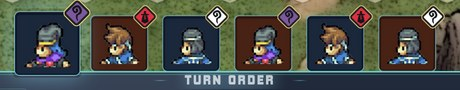
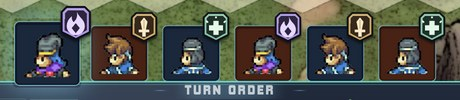
Redesign combat class crests and add them to both side rosters

diff --git a/client/src/components/GuidePage.tsx b/client/src/components/GuidePage.tsx
@@ -73,9 +73,10 @@ export default function GuidePage({onClose}: {onClose?: () => void}) {
             <p>The standard turn timer is <strong>{TURN_DURATION} seconds</strong>. Plan while other characters act and watch the hourglass for your remaining time. If the timer runs out, you lose that opportunity to act.</p>
             <p>Combat starts once everyone has loaded the arena and both teams’ spell and item effects. Practice matches pause if your connection drops and resume after the arena is ready again, keeping your remaining turn time. Once a match against another player has started, its clock keeps running if you disconnect.</p>
             <figure className="guide-figure-compact">
-              <img src={turnOrder} width="460" height="90" loading="lazy" alt="The turn-order portraits along the bottom of the arena, showing the sequence of characters about to act." />
+              <img src={turnOrder} width="460" height="100" loading="lazy" alt="The turn-order portraits along the bottom of the arena, showing class crests and the sequence of characters about to act." />
               <figcaption>The turn order is your planning tool. Speed and the recovery time of each action affect when a character acts again.</figcaption>
             </figure>
+            <p>Class crests appear on both side rosters and the turn order: an amber sword for Warriors, a mint cross for White Mages, and a violet flame for Black Mages.</p>
             <dl className="guide-definitions">
               <div><dt>Move</dt><dd>Click an empty blue tile. Moving uses your action, so pick a position that sets up your next turn or gets a vulnerable character out of danger.</dd></div>
               <div><dt>Attack</dt><dd>Click an adjacent enemy for a melee attack. Clicking a distant enemy moves you toward them instead; it does not grant a free attack.</dd></div>

diff --git a/client/src/components/HUD/Timeline.tsx b/client/src/components/HUD/Timeline.tsx
@@ -1,12 +1,11 @@
 import { h } from 'preact';
 // SpectatorFooter.tsx
 import { Component } from 'preact';
-import { PlayMode, Class } from '@legion/shared/enums';
+import { PlayMode } from '@legion/shared/enums';
 import { TeamOverview } from "@legion/shared/interfaces";
 import { getSpritePath } from '../utils';
 import './Timeline.style.css';
-import warriorIcon from '@assets/shop/warrior_icon.png';
-import mageIcon from '@assets/shop/mage_icon.png';
+import ClassCrest from './ClassCrest';
 
 interface TimelineProps {
   isTutorial: boolean;
@@ -103,18 +102,8 @@ class Timeline extends Component<TimelineProps, TimelineState> {
                         className="timeline_portrait"
                         style={portraitStyle}
                       />
-                      <div className={`timeline_class_indicator ${
-                        character.class === Class.WARRIOR
-                          ? 'frame-warrior'
-                          : character.class === Class.BLACK_MAGE
-                          ? 'frame-black-mage'
-                          : 'frame-white-mage'
-                      }`}>
-                        <img
-                          src={character.class === Class.WARRIOR ? warriorIcon : mageIcon}
-                          className={`class-icon ${character.class === Class.WARRIOR ? 'warrior' : ''}`}
-                          alt={`${Class[character.class]} class`}
-                        />
+                      <div className="timeline_class_indicator">
+                        <ClassCrest characterClass={character.class} />
                       </div>
                     </div>
                   </div>

diff --git a/client/src/components/HUD/ClassCrest.tsx b/client/src/components/HUD/ClassCrest.tsx
@@ -1,0 +1,36 @@
+import { h, Fragment } from 'preact';
+import { Class, ClassLabels } from '@legion/shared/enums';
+import './ClassCrest.style.css';
+
+// Broad silhouettes stay distinct when the combat HUD scales down.
+const symbols = {
+  [Class.WARRIOR]: <>
+    <path d="m16 7 4 5-2 10h-4l-2-10z" />
+    <path d="M10 21h12v3h-4v5h-4v-5h-4z" />
+    <path d="M16 10v10" className="class-crest__engraving" />
+  </>,
+  [Class.WHITE_MAGE]: <>
+    <path d="M13 11h6v5h5v6h-5v5h-6v-5H8v-6h5z" />
+    <path d="M16 6v2M5 11l2 2m20-2-2 2" className="class-crest__rays" />
+  </>,
+  [Class.BLACK_MAGE]: <>
+    <path d="M17 6c2 7 8 8 8 15a9 9 0 0 1-18 0c0-4 2-7 5-10 0 4 1 5 2 6 3-3 4-6 3-11Z" />
+    <path d="m16 18 4 5-4 5-4-5z" className="class-crest__cutout" />
+  </>,
+  [Class.THIEF]: <>
+    <path d="m10 7 5 5v9h-4L9 10Zm12 0 1 3-2 11h-4v-9ZM9 22h7v3h-2v5h-3v-5H9Zm7 0h7v3h-2v5h-3v-5h-2Z" />
+  </>,
+  [Class.RANDOM]: <path d="m16 8 3 8 7 3-7 3-3 8-3-8-7-3 7-3z" />,
+};
+
+export default function ClassCrest({ characterClass }: { characterClass: Class }) {
+  return (
+    <svg className="class-crest" data-class={characterClass} viewBox="0 0 32 36" role="img" aria-label={ClassLabels[characterClass]}>
+      <title>{ClassLabels[characterClass]}</title>
+      <path d="M7 2h18l5 5v20L16 34 2 27V7Z" className="class-crest__rim" />
+      <path d="M8 5h16l3 3v17l-11 6L5 25V8Z" className="class-crest__field" />
+      <path d="M5 14V8l3-3h16l3 3" className="class-crest__bevel" />
+      <g className="class-crest__symbol">{symbols[characterClass] ?? symbols[Class.RANDOM]}</g>
+    </svg>
+  );
+}

diff --git a/client/src/components/HUD/ClassCrest.style.css b/client/src/components/HUD/ClassCrest.style.css
@@ -1,0 +1,60 @@
+.class-crest {
+  --crest-edge: oklch(76% 0.11 78);
+  --crest-field: oklch(29% 0.035 62);
+  --crest-ink: oklch(94% 0.05 85);
+  display: block;
+  width: 100%;
+  height: 100%;
+  overflow: visible;
+  filter: drop-shadow(0 2px 1px oklch(15% 0.01 250 / 0.65));
+}
+
+.class-crest[data-class="1"] {
+  --crest-edge: oklch(77% 0.09 166);
+  --crest-field: oklch(29% 0.035 170);
+  --crest-ink: oklch(96% 0.035 155);
+}
+
+.class-crest[data-class="2"] {
+  --crest-edge: oklch(73% 0.13 300);
+  --crest-field: oklch(29% 0.055 300);
+  --crest-ink: oklch(91% 0.06 305);
+}
+
+.class-crest[data-class="3"] {
+  --crest-edge: oklch(76% 0.09 230);
+  --crest-field: oklch(29% 0.035 230);
+  --crest-ink: oklch(94% 0.035 225);
+}
+
+.class-crest__rim {
+  fill: var(--crest-edge);
+  stroke: oklch(18% 0.015 250);
+  stroke-width: 2;
+  stroke-linejoin: round;
+}
+
+.class-crest__field,
+.class-crest__cutout {
+  fill: var(--crest-field);
+}
+
+.class-crest__bevel {
+  fill: none;
+  stroke: var(--crest-ink);
+  stroke-opacity: 0.5;
+}
+
+.class-crest__symbol {
+  fill: var(--crest-ink);
+}
+
+.class-crest__engraving {
+  stroke: var(--crest-edge);
+  stroke-width: 1;
+}
+
+.class-crest__rays {
+  stroke: var(--crest-ink);
+  stroke-width: 2;
+}

diff --git a/client/src/components/HUD/Overview.tsx b/client/src/components/HUD/Overview.tsx
@@ -2,6 +2,7 @@ import { h } from 'preact';
 import { Component } from 'preact';
 import { PlayerProps, TeamMember, PlayerProfileData } from "@legion/shared/interfaces";
 import PlayerInfo from './PlayerInfo';
+import ClassCrest from './ClassCrest';
 import { PlayMode, StatusEffect } from '@legion/shared/enums';
 import { getSpritePath, statusIcons } from '../utils';
 import './Overview.style.css';
@@ -119,6 +120,9 @@ class Overview extends Component<Props, State> {
                   <div className={`char_portrait ${position === 'left' ? 'flip' : 'char_portrait_right'} ${member.hp > 0 ? 'char_alive_animation' : ''}`} style={portraitStyle} />
                 </div>
                 <div className={`char_stats ${position === 'right' && 'char_stats_right'}`} style={charStatStyle(memberIndex)}>
+                  <div className="overview_class_crest">
+                    <ClassCrest characterClass={member.class} />
+                  </div>
                   <div className="char_stats_player_name">
                     <div className="char_stats_player_index">
                       <span>{memberIndex + 1}</span>

diff --git a/client/src/components/HUD/Timeline.style.css b/client/src/components/HUD/Timeline.style.css
@@ -189,45 +189,13 @@
   }
 }
 
+/* The compact crest shares the side roster's silhouette and class colors. */
 .timeline_class_indicator {
   position: absolute;
-  top: -10px;
-  right: -10px;
+  top: -12px;
+  right: -9px;
   width: 28px;
-  height: 28px;
-  background-size: contain;
-  background-repeat: no-repeat;
-  display: flex;
-  align-items: center;
-  justify-content: center;
-}
-
-.frame-warrior {
-  background-image: url('@assets/HUD/class_icon_frame_w.png');
-}
-
-.frame-black-mage {
-  background-image: url('@assets/HUD/class_icon_frame_bm.png');
-}
-
-.frame-white-mage {
-  background-image: url('@assets/HUD/class_icon_frame_wm.png');
-}
-
-.timeline_class_indicator img {
-  width: 50%;
-  height: 50%;
-  object-fit: contain;
-}
-
-.timeline_class_indicator .warrior {
-  transform: scaleX(1.5);
-}
-
-/* Adjust the portrait container to accommodate the class indicator */
-.timeline_portrait_container {
-  position: relative;
-  margin: 3px;
+  height: 32px;
 }
 
 .ally_portrait {

diff --git a/client/src/components/HUD/Overview.style.css b/client/src/components/HUD/Overview.style.css
@@ -138,14 +138,15 @@
 }
 
 .char_stats {
+  position: relative;
   background-size: 100% 100%;
   height: 55px;
-  width: 130px;
+  width: 172px;
   margin-left: -16px;
   margin-bottom: 4px;
   padding: 8px;
   padding-left: 22px;
-  padding-right: 12px;
+  padding-right: 54px;
   display: flex;
   flex-direction: column;
   gap: 4px;
@@ -154,8 +155,22 @@
 .char_stats_right {
   margin-left: 0;
   margin-right: -16px;
-  padding-left: 12px;
+  padding-left: 54px;
   padding-right: 20px;
+}
+
+.overview_class_crest {
+  position: absolute;
+  right: 10px;
+  top: 50%;
+  width: 32px;
+  height: 36px;
+  transform: translateY(-50%);
+}
+
+.char_stats_right .overview_class_crest {
+  right: auto;
+  left: 10px;
 }
 
 .char_stats_right .char_stats_player_name {
@@ -295,4 +310,4 @@
   .team_label {
     font-size: 0.625rem;
   }
-} 
+}
